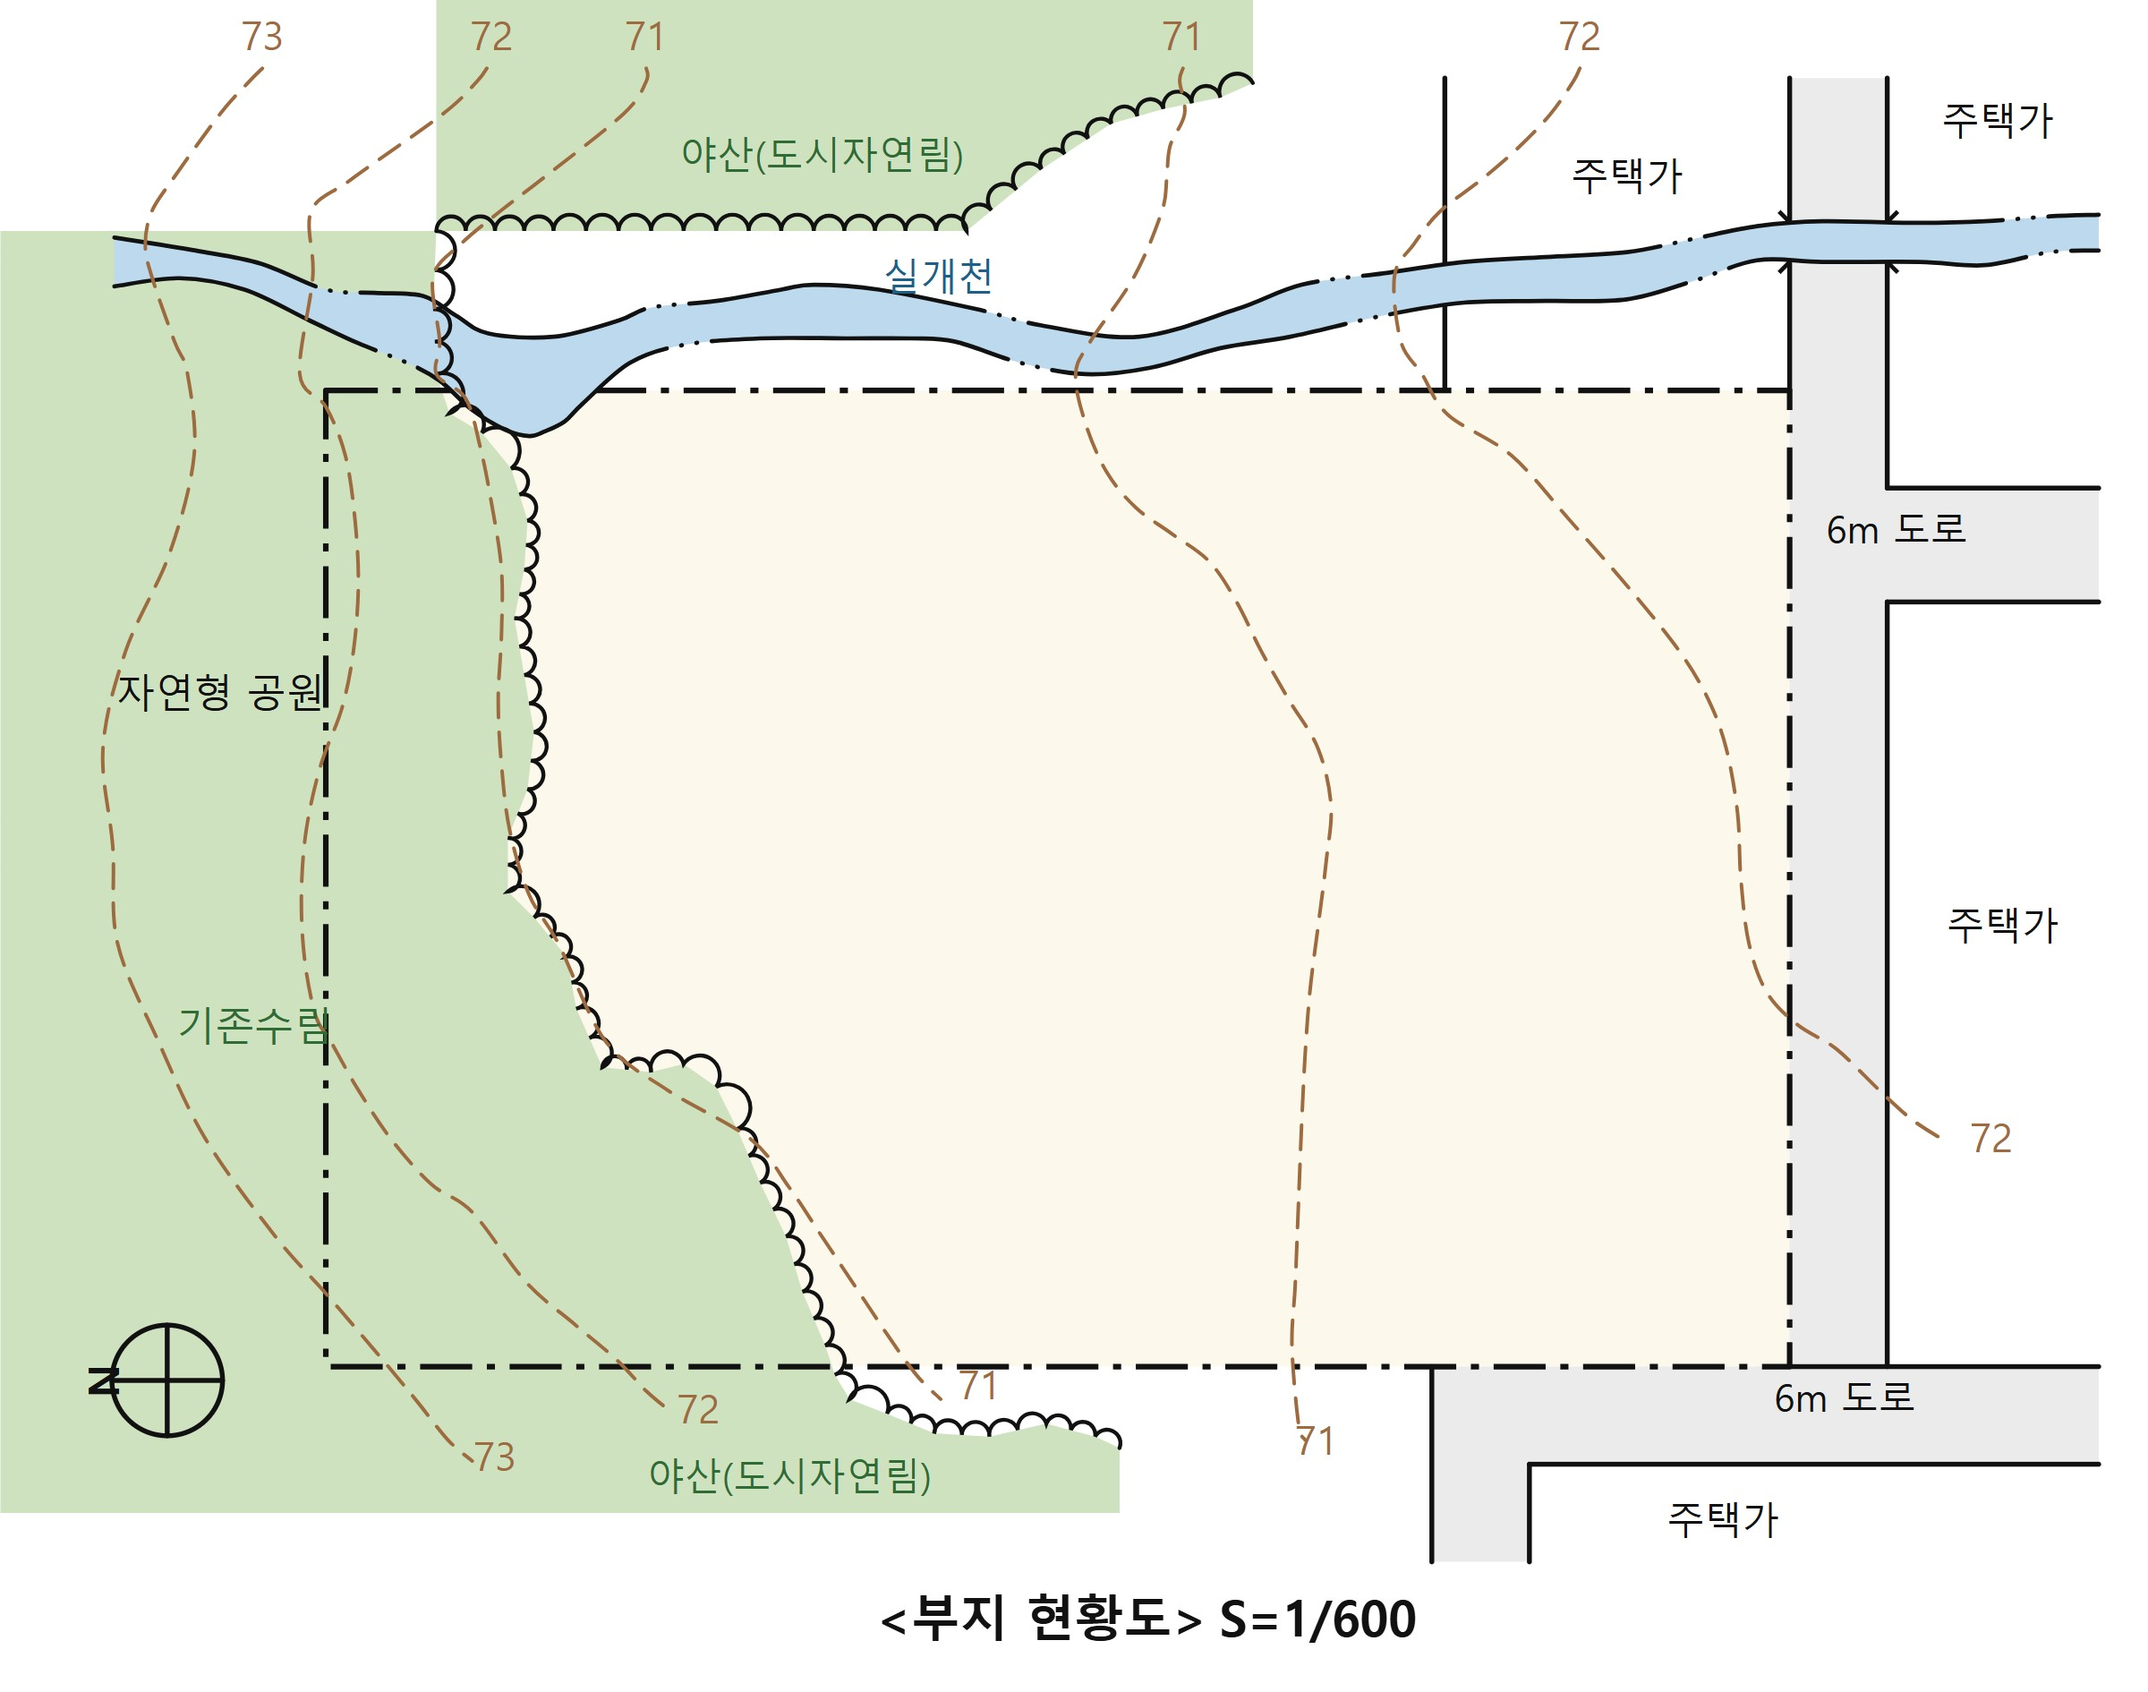
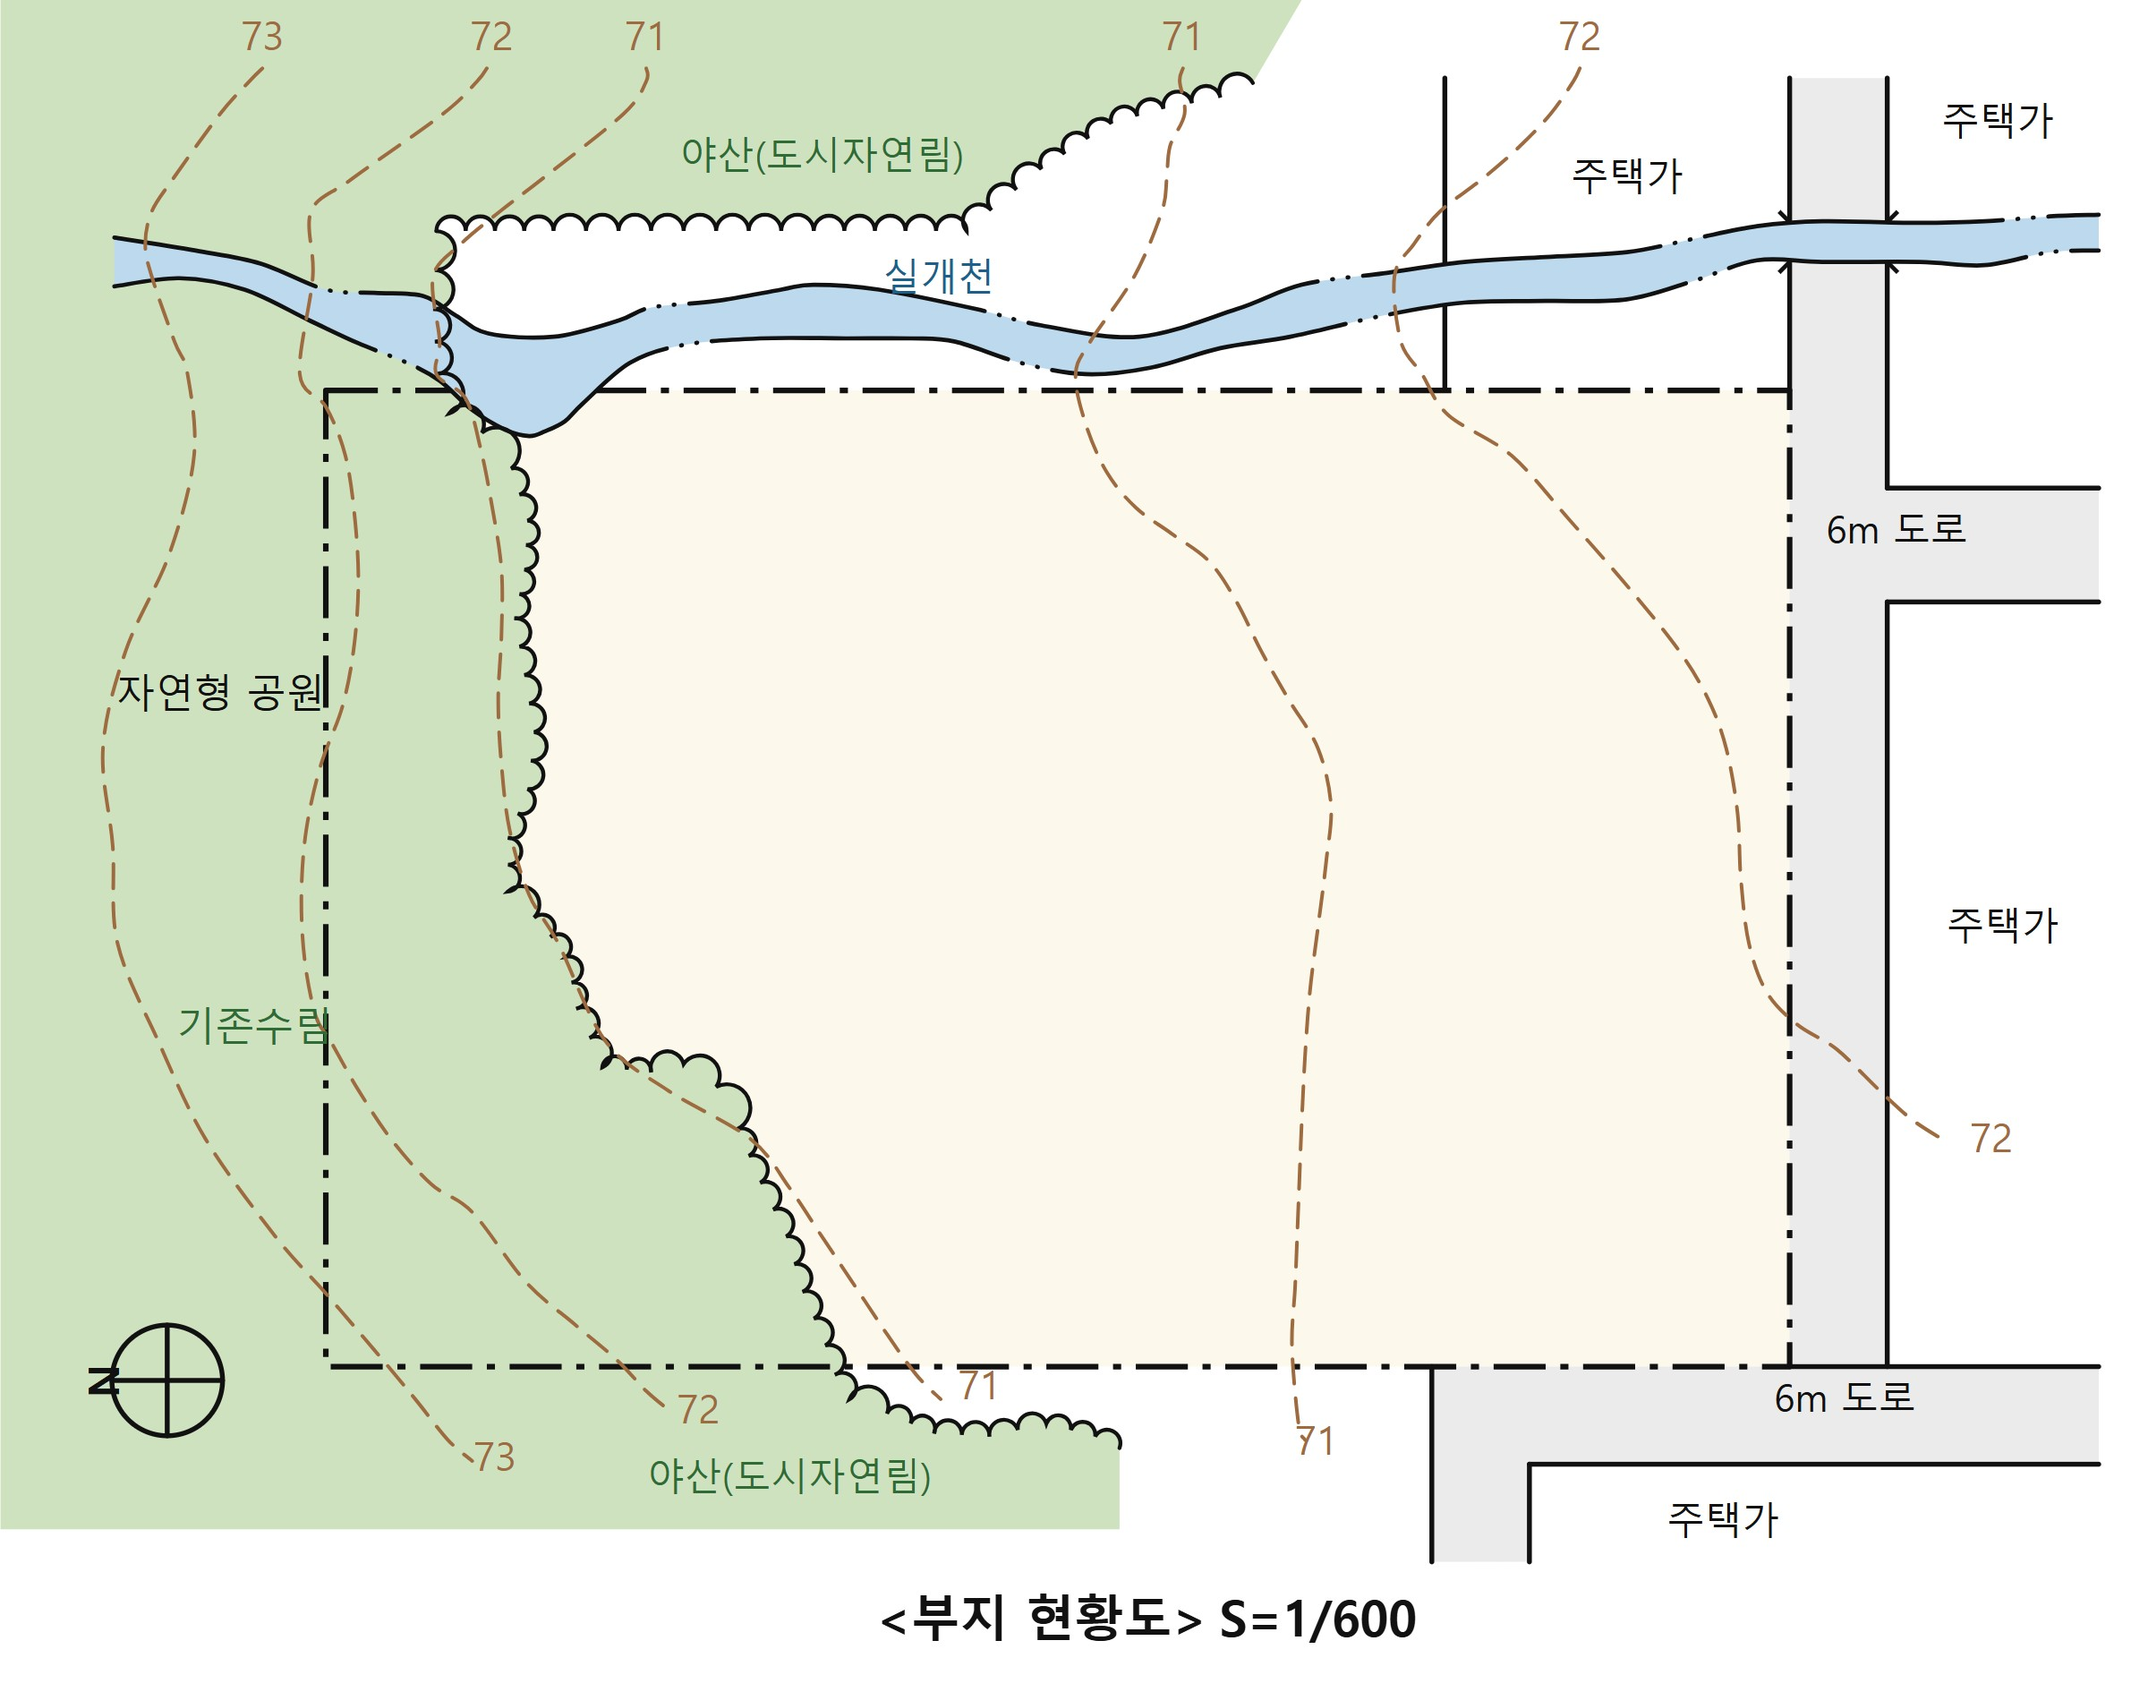
401 채색 현황도: 북서쪽도 녹색으로, 수림 경계를 물결선 그대로 칠함
두 가지를 고쳤다.

1) 북서 구석이 희게 남아 있었다 — 면을 하나로 합친 SVG 는 맞았는데 **예전 JPG 를
   그대로 복사**해 넣은 탓이다. SVG→PNG→JPG 를 다시 굽고 복사했다.
2) 면 경계를 물결선의 기준선(직선)으로 잡아 반원이 면 밖으로 삐져나왔다.
   scallop_d() 로 path d 를 뽑아 선과 면이 같은 길을 쓰게 했다. 야산 쪽은 거꾸로
   이으므로 점 순서와 side 를 함께 뒤집는다.

diff --git a/make_site401_svg.py b/make_site401_svg.py
@@ -51,8 +51,10 @@ def text(x, y, s, size=2.3, c=INK, anchor='middle', weight=500, rot=None):
     A(f'<text x="{x:g}" y="{y:g}" font-size="{size}" fill="{c}" text-anchor="{anchor}" font-weight="{weight}"{tr}>{s}</text>')
 
 
-def scallops(pts, r=1.0, w=0.24, side=1):
-    """폴리라인을 따라 반원 물결(수림 경계)."""
+def scallop_d(pts, r=1.0, side=1):
+    """폴리라인을 따라 반원 물결(수림 경계)을 그리는 path d. 채색 면도 **이 길을 그대로 경계로 쓴다** —
+    기준선(직선)으로 칠하면 반원이 면 밖으로 삐져나와 경계가 어긋난다.
+    거꾸로 이을 때는 점 순서를 뒤집고 side 도 뒤집어야 같은 쪽으로 부푼다."""
     res = [pts[0]]
     for a, b in zip(pts, pts[1:]):
         L = math.hypot(b[0] - a[0], b[1] - a[1])
@@ -62,7 +64,11 @@ def scallops(pts, r=1.0, w=0.24, side=1):
     for a, b in zip(res, res[1:]):
         rr = math.hypot(b[0] - a[0], b[1] - a[1]) / 2
         d += f' A{rr:.2f} {rr:.2f} 0 0 {1 if side > 0 else 0} {b[0]:.2f} {b[1]:.2f}'
-    A(f'<path d="{d}" fill="none" stroke="{INK}" stroke-width="{w}" stroke-linecap="round"/>')
+    return d
+
+
+def scallops(pts, r=1.0, w=0.24, side=1):
+    A(f'<path d="{scallop_d(pts, r, side)}" fill="none" stroke="{INK}" stroke-width="{w}" stroke-linecap="round"/>')
 
 
 # ════════════════════════════════ 그림 ════════════════════════════════
@@ -77,17 +83,24 @@ C_SITE, C_WOOD, C_WATER, C_ROAD = '#fdf8ec', '#cfe2c0', '#bcd9ee', '#ebebeb'
 C_CONT, C_LBL_W, C_LBL_G = '#9d6b3f', '#1d5f8a', '#2f6b34'
 CONT_C = C_CONT if COLOR else INK
 
+# 수림 경계 물결선 — 선으로도 긋고(4·5절) 채색 면의 경계로도 쓴다. 둘은 (6.8, -9.8) 에서 만난다.
+YASAN = [(6.8, -9.8), (14, -9.8), (22, -9.8), (30, -9.8), (39.4, -9.8), (44, -13.6), (48.3, -16.4), (51.5, -17.3),
+         (55, -18), (57, -18.9)]
+SURIM = [(6.8, -9.8), (6.6, -5), (6.8, -1), (7.6, 1.4), (9.6, 2.6), (11.4, 4.8), (12.4, 8), (12.2, 11), (11.6, 14),
+         (12.2, 17.5), (12.8, 21), (12.4, 24.5), (11.2, 27.5), (11.2, 30.8), (12.8, 32.4), (14.8, 34.8), (15.4, 38),
+         (17, 41.6), (20, 41.9), (22, 41.4), (24, 42.8), (25.3, 45.4), (26.7, 48.7), (28.3, 52), (29.3, 55.4),
+         (30.7, 58.7), (31.3, 60.5), (32.2, 62), (34.5, 62.9), (37.4, 64.1), (40.8, 64.3), (44.3, 63.5),
+         (47.3, 64.3), (48.8, 65)]
+
 # ── 0. 바탕 면 (채색본만) ──
 if COLOR:
     A(f'<rect x="0" y="0" width="90" height="60" fill="{C_SITE}"/>')
     # 야산 + 기존수림을 **한 덩어리로** 칠한다 — 둘로 나누면 부지 북서쪽에 없는 이음매가 그어진다.
-    # 물결선을 따라가다 도면 가장자리로 빠져나가 닫으므로, 잘리는 변이 모두 도면 테두리에 걸린다.
-    pl([(60, -24), (57, -18.9), (55, -18), (51.5, -17.3), (48.3, -16.4), (44, -13.6), (39.4, -9.8), (6.8, -9.8),
-        (6.6, -5), (6.8, -1), (7.6, 1.4), (9.6, 2.6), (11.4, 4.8), (12.4, 8), (12.2, 11), (11.6, 14),
-        (12.2, 17.5), (12.8, 21), (12.4, 24.5), (11.2, 27.5), (11.2, 30.8), (12.8, 32.4), (14.8, 34.8), (15.4, 38),
-        (17, 41.6), (20, 41.9), (22, 41.4), (24, 42.8), (25.3, 45.4), (26.7, 48.7), (28.3, 52), (29.3, 55.4),
-        (30.7, 58.7), (31.3, 60.5), (32.2, 62), (34.5, 62.9), (37.4, 64.1), (40.8, 64.3), (44.3, 63.5),
-        (47.3, 64.3), (48.8, 65), (48.8, 70), (-20, 70), (-20, -24)], 0, fill=C_WOOD, close=True)
+    # 경계는 **물결선 그대로**(직선 기준선이 아니다). 야산 쪽은 거꾸로 이으므로 side 를 뒤집는다.
+    ya = scallop_d(YASAN[::-1], side=-1)          # (57,-18.9) → (6.8,-9.8)
+    su = scallop_d(SURIM)                         # (6.8,-9.8) → (48.8,65)
+    A(f'<path d="M60 -24 L{ya[1:]} {su[su.index("A"):]} L48.8 70 L-20 70 L-20 -24 Z" '
+      f'fill="{C_WOOD}" stroke="none"/>')
     # 도로
     pl([(90, -19.2), (96, -19.2), (96, 6), (109, 6), (109, 13), (96, 13), (96, 60), (109, 60), (109, 66), (74, 66),
         (74, 72), (68, 72), (68, 60), (90, 60)], 0, fill=C_ROAD, close=True)
@@ -134,17 +147,12 @@ for cx, sx in ((90, -1), (96, 1)):                   # sx = 도로 바깥 방향
 text(37.7, -6.1, '실개천', 2.3, C_LBL_W if COLOR else INK)
 
 # ── 4. 야산(도시자연림) 경계 — 북쪽 · 남동쪽 ──
-scallops([(6.8, -9.8), (14, -9.8), (22, -9.8), (30, -9.8), (39.4, -9.8), (44, -13.6), (48.3, -16.4), (51.5, -17.3),
-          (55, -18), (57, -18.9)], 1.0)
+scallops(YASAN, 1.0)
 text(30.5, -13.6, '야산(도시자연림)', 2.3, C_LBL_G if COLOR else INK)
 text(28.5, 67.6, '야산(도시자연림)', 2.3, C_LBL_G if COLOR else INK)
 
 # ── 5. 기존수림 경계 (야산에서 내려와 부지를 가로지른 뒤 남동쪽 야산으로 이어진다) ──
-scallops([(6.8, -9.8), (6.6, -5), (6.8, -1), (7.6, 1.4), (9.6, 2.6), (11.4, 4.8), (12.4, 8), (12.2, 11), (11.6, 14),
-          (12.2, 17.5), (12.8, 21), (12.4, 24.5), (11.2, 27.5), (11.2, 30.8), (12.8, 32.4), (14.8, 34.8), (15.4, 38),
-          (17, 41.6), (20, 41.9), (22, 41.4), (24, 42.8), (25.3, 45.4), (26.7, 48.7), (28.3, 52), (29.3, 55.4),
-          (30.7, 58.7), (31.3, 60.5), (32.2, 62), (34.5, 62.9), (37.4, 64.1), (40.8, 64.3), (44.3, 63.5),
-          (47.3, 64.3), (48.8, 65)], 1.0)
+scallops(SURIM, 1.0)
 
 # ── 6. 등고선 71 · 72 · 73 (점선) ──
 curve([(-3.9, -19.8), (-4.7, -19), (-6.5, -17), (-9.4, -13), (-10.7, -11), (-11.1, -9), (-10.7, -7), (-9.3, -3),
